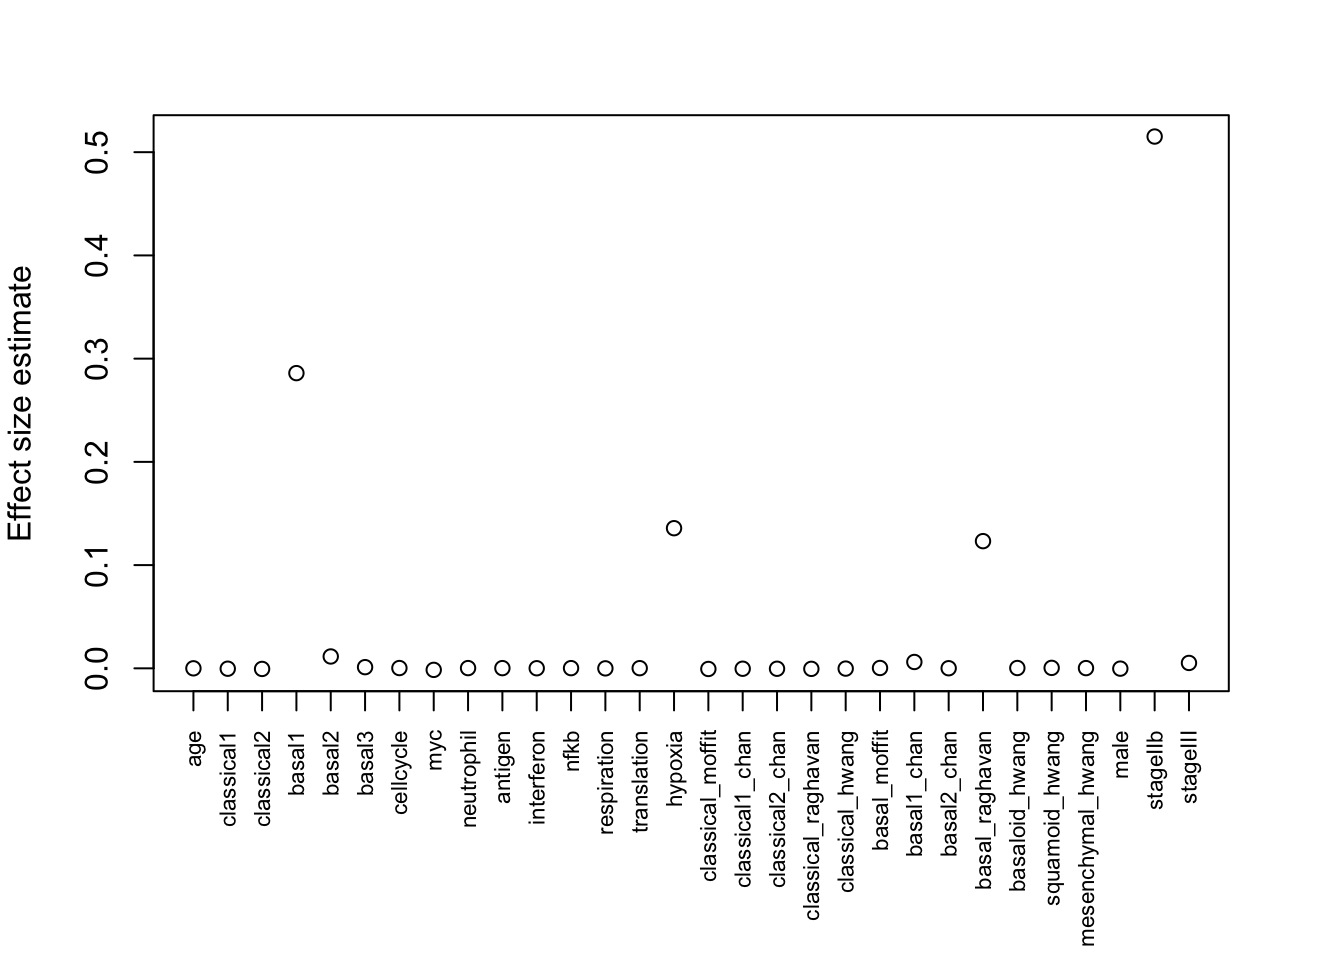
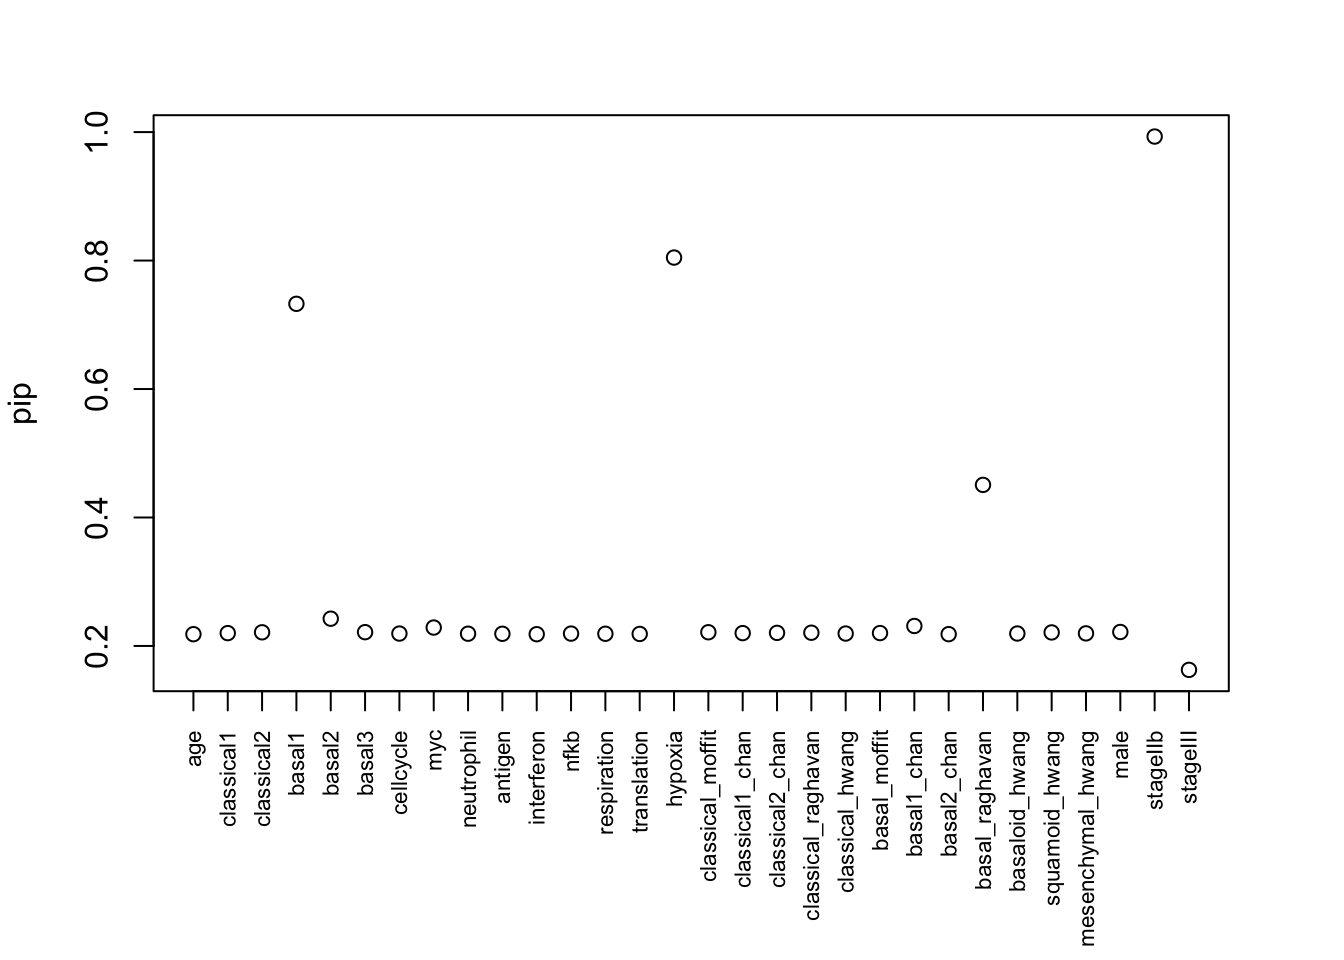
Build site.

diff --git a/docs/cancer_subtype.html b/docs/cancer_subtype.html
@@ -475,16 +475,16 @@ This reproducible <a href="http://rmarkdown.rstudio.com">R Markdown</a> analysis
 <div class="panel panel-default">
 <div class="panel-heading">
 <p class="panel-title">
-<a data-toggle="collapse" data-parent="#workflowr-checks" href="#strongRepositoryversionstrongahrefhttpsgithubcomyunqiyang0215survivalsusietree2ed94a0514c918e3584a7d718ac0d0508d1b972ftargetblank2ed94a0a"> <span class="glyphicon glyphicon-ok text-success" aria-hidden="true"></span> <strong>Repository version:</strong> <a href="https://github.com/yunqiyang0215/survival-susie/tree/2ed94a0514c918e3584a7d718ac0d0508d1b972f" target="_blank">2ed94a0</a> </a>
+<a data-toggle="collapse" data-parent="#workflowr-checks" href="#strongRepositoryversionstrongahrefhttpsgithubcomyunqiyang0215survivalsusietree49760779357f1e24a1a966d51c5ba97d06b636a8targetblank4976077a"> <span class="glyphicon glyphicon-ok text-success" aria-hidden="true"></span> <strong>Repository version:</strong> <a href="https://github.com/yunqiyang0215/survival-susie/tree/49760779357f1e24a1a966d51c5ba97d06b636a8" target="_blank">4976077</a> </a>
 </p>
 </div>
[2 lines of base64/hex data omitted]
 <div class="panel-body">
 <p>
 Great! You are using Git for version control. Tracking code development and connecting the code version to the results is critical for reproducibility.
 </p>
 <p>
-The results in this page were generated with repository version <a href="https://github.com/yunqiyang0215/survival-susie/tree/2ed94a0514c918e3584a7d718ac0d0508d1b972f" target="_blank">2ed94a0</a>. See the <em>Past versions</em> tab to see a history of the changes made to the R Markdown and HTML files.
+The results in this page were generated with repository version <a href="https://github.com/yunqiyang0215/survival-susie/tree/49760779357f1e24a1a966d51c5ba97d06b636a8" target="_blank">4976077</a>. See the <em>Past versions</em> tab to see a history of the changes made to the R Markdown and HTML files.
 </p>
 <p>
 Note that you need to be careful to ensure that all relevant files for the analysis have been committed to Git prior to generating the results (you can use <code>wflow_publish</code> or <code>wflow_git_commit</code>). workflowr only checks the R Markdown file, but you know if there are other scripts or data files that it depends on. Below is the status of the Git repository when the results were generated:
@@ -538,6 +538,40 @@ Message
 </tr>
 </thead>
 <tbody>
+<tr>
+<td>
+Rmd
+</td>
+<td>
+<a href="https://github.com/yunqiyang0215/survival-susie/blob/49760779357f1e24a1a966d51c5ba97d06b636a8/analysis/cancer_subtype.Rmd" target="_blank">4976077</a>
+</td>
+<td>
+yunqiyang0215
+</td>
+<td>
+2023-08-29
+</td>
+<td>
+wflow_publish("analysis/cancer_subtype.Rmd")
+</td>
+</tr>
+<tr>
+<td>
+html
+</td>
+<td>
+<a href="https://rawcdn.githack.com/yunqiyang0215/survival-susie/208a3f11afe7b7a4f474ceb66f1a8472782217ac/docs/cancer_subtype.html" target="_blank">208a3f1</a>
+</td>
+<td>
+yunqiyang0215
+</td>
+<td>
+2023-08-29
+</td>
+<td>
+Build site.
+</td>
+</tr>
 <tr>
 <td>
 Rmd
@@ -1037,66 +1071,81 @@ p = ncol(X)
 y &lt;- Surv(data.combined$futime, data.combined$event)
 fit.susie &lt;- ibss_from_ser(X, y, L = L, prior_variance = 1., prior_weights = rep(1/p, p), tol = 1e-3, maxit = maxiter,
                      estimate_intercept = TRUE, ser_function = fit_coxph)</code></pre>
-<pre><code>19.047 sec elapsed</code></pre>
+<pre><code>21.057 sec elapsed</code></pre>
 <pre class="r"><code>pip &lt;- logisticsusie:::get_pip(fit.susie$alpha)
 effect_estimate &lt;- colSums(fit.susie$alpha * fit.susie$mu)
 class(fit.susie) = &quot;susie&quot;
 cs &lt;- susie_get_cs(fit.susie, X)</code></pre>
+<pre class="r"><code>fit.susie$alpha</code></pre>
+<pre><code>              [,1]         [,2]         [,3]         [,4]         [,5]
+ [1,] 9.077002e-10 1.775708e-06 1.637247e-05 0.6571516629 0.0291000168
+ [2,] 5.012913e-05 2.368225e-04 2.541389e-04 0.0002223035 0.0002127505
+ [3,] 1.559306e-03 8.131596e-03 9.603318e-03 0.0085495339 0.0078215657
+ [4,] 3.435439e-02 3.371088e-02 3.372478e-02 0.0337040022 0.0337135529
+ [5,] 3.435439e-02 3.371088e-02 3.372478e-02 0.0337040022 0.0337135529
+ [6,] 3.435439e-02 3.371088e-02 3.372478e-02 0.0337040022 0.0337135529
+ [7,] 3.435439e-02 3.371088e-02 3.372478e-02 0.0337040022 0.0337135529
+ [8,] 3.435439e-02 3.371088e-02 3.372478e-02 0.0337040022 0.0337135529
+ [9,] 3.435439e-02 3.371088e-02 3.372478e-02 0.0337040022 0.0337135529
+[10,] 3.435439e-02 3.371088e-02 3.372478e-02 0.0337040022 0.0337135529
+              [,6]         [,7]         [,8]         [,9]        [,10]
+ [1,] 0.0020906630 9.640262e-09 0.0000244297 3.713704e-07 3.314570e-09
+ [2,] 0.0002196933 2.092147e-04 0.0009088008 2.130571e-04 2.700713e-04
+ [3,] 0.0080484333 7.245943e-03 0.0158386834 6.970563e-03 6.746850e-03
+ [4,] 0.0336975973 3.371386e-02 0.0340803435 3.371423e-02 3.371423e-02
+ [5,] 0.0336975973 3.371386e-02 0.0340803435 3.371423e-02 3.371423e-02
+ [6,] 0.0336975973 3.371386e-02 0.0340803435 3.371423e-02 3.371423e-02
+ [7,] 0.0336975973 3.371386e-02 0.0340803435 3.371423e-02 3.371423e-02
+ [8,] 0.0336975973 3.371386e-02 0.0340803435 3.371423e-02 3.371423e-02
+ [9,] 0.0336975973 3.371386e-02 0.0340803435 3.371423e-02 3.371423e-02
+[10,] 0.0336975973 3.371386e-02 0.0340803435 3.371423e-02 3.371423e-02
+             [,11]        [,12]        [,13]        [,14]        [,15]
+ [1,] 8.031203e-09 3.356080e-09 3.122874e-09 1.842121e-08 2.410391e-08
+ [2,] 2.303416e-04 2.347758e-04 4.467966e-04 2.482434e-04 5.964454e-04
+ [3,] 5.960467e-03 7.161210e-03 5.846314e-03 6.447664e-03 7.520618e-01
+ [4,] 3.371457e-02 3.371410e-02 3.382142e-02 3.371558e-02 3.342358e-02
+ [5,] 3.371457e-02 3.371410e-02 3.382142e-02 3.371558e-02 3.342358e-02
+ [6,] 3.371457e-02 3.371410e-02 3.382142e-02 3.371558e-02 3.342358e-02
+ [7,] 3.371457e-02 3.371410e-02 3.382142e-02 3.371558e-02 3.342358e-02
+ [8,] 3.371457e-02 3.371410e-02 3.382142e-02 3.371558e-02 3.342358e-02
+ [9,] 3.371457e-02 3.371410e-02 3.382142e-02 3.371558e-02 3.342358e-02
+[10,] 3.371457e-02 3.371410e-02 3.382142e-02 3.371558e-02 3.342358e-02
+             [,16]        [,17]        [,18]        [,19]        [,20]
+ [1,] 5.801256e-06 3.155495e-05 7.011291e-06 7.313144e-05 5.399864e-05
+ [2,] 2.486757e-04 2.319866e-04 2.508969e-04 2.377948e-04 2.462564e-04
+ [3,] 9.966125e-03 8.146961e-03 8.571510e-03 8.906771e-03 7.206083e-03
+ [4,] 3.369123e-02 3.370547e-02 3.371460e-02 3.370397e-02 3.371372e-02
+ [5,] 3.369123e-02 3.370547e-02 3.371460e-02 3.370397e-02 3.371372e-02
+ [6,] 3.369123e-02 3.370547e-02 3.371460e-02 3.370397e-02 3.371372e-02
+ [7,] 3.369123e-02 3.370547e-02 3.371460e-02 3.370397e-02 3.371372e-02
+ [8,] 3.369123e-02 3.370547e-02 3.371460e-02 3.370397e-02 3.371372e-02
+ [9,] 3.369123e-02 3.370547e-02 3.371460e-02 3.370397e-02 3.371372e-02
+[10,] 3.369123e-02 3.370547e-02 3.371460e-02 3.370397e-02 3.371372e-02
+             [,21]        [,22]        [,23]        [,24]        [,25]
+ [1,] 3.189192e-06 0.0156453106 7.767224e-07 0.2957430322 5.023537e-05
+ [2,] 2.526942e-04 0.0002169459 2.332186e-04 0.0002138327 2.026477e-04
+ [3,] 8.151991e-03 0.0068072742 6.036067e-03 0.0084354972 7.316384e-03
+ [4,] 3.372136e-02 0.0337007048 3.371359e-02 0.0336944941 3.371048e-02
+ [5,] 3.372136e-02 0.0337007048 3.371359e-02 0.0336944941 3.371048e-02
+ [6,] 3.372136e-02 0.0337007048 3.371359e-02 0.0336944941 3.371048e-02
+ [7,] 3.372136e-02 0.0337007048 3.371359e-02 0.0336944941 3.371048e-02
+ [8,] 3.372136e-02 0.0337007048 3.371359e-02 0.0336944941 3.371048e-02
+ [9,] 3.372136e-02 0.0337007048 3.371359e-02 0.0336944941 3.371048e-02
+[10,] 3.372136e-02 0.0337007048 3.371359e-02 0.0336944941 3.371048e-02
+             [,26]        [,27]        [,28]        [,29]        [,30]
+ [1,] 2.509383e-07 2.814662e-07 5.732256e-09 6.280751e-09 5.106184e-08
+ [2,] 2.796190e-04 2.770030e-04 4.935214e-04 9.911180e-01 9.433166e-04
+ [3,] 8.573001e-03 7.140600e-03 1.010089e-02 1.148845e-02 2.515914e-02
+ [4,] 3.383111e-02 3.377199e-02 3.371349e-02 3.372379e-02 2.137288e-02
+ [5,] 3.383111e-02 3.377199e-02 3.371349e-02 3.372379e-02 2.137288e-02
+ [6,] 3.383111e-02 3.377199e-02 3.371349e-02 3.372379e-02 2.137288e-02
+ [7,] 3.383111e-02 3.377199e-02 3.371349e-02 3.372379e-02 2.137288e-02
+ [8,] 3.383111e-02 3.377199e-02 3.371349e-02 3.372379e-02 2.137288e-02
+ [9,] 3.383111e-02 3.377199e-02 3.371349e-02 3.372379e-02 2.137288e-02
+[10,] 3.383111e-02 3.377199e-02 3.371349e-02 3.372379e-02 2.137288e-02</code></pre>
 <pre class="r"><code># Set wider margins to accommodate the labels
 par(mar = c(7, 4, 3, 3)) 
 plot(pip, xaxt = &quot;n&quot;, xlab = &quot;&quot;)
-axis(1, at=1:30, labels=colnames(X), las=2,  cex.axis = 0.7, xlab = &quot;&quot;)</code></pre>
-<p><img src="figure/cancer_subtype.Rmd/unnamed-chunk-7-1.png" width="672" style="display: block; margin: auto;" /></p>
-<p>
-<button type="button" class="btn btn-default btn-xs btn-workflowr btn-workflowr-fig" data-toggle="collapse" data-target="#fig-unnamed-chunk-7-1">
-Past versions of unnamed-chunk-7-1.png
-</button>
-</p>
-<div id="fig-unnamed-chunk-7-1" class="collapse">
-<div class="table-responsive">
-<table class="table table-condensed table-hover">
-<thead>
-<tr>
-<th>
-Version
-</th>
-<th>
-Author
-</th>
-<th>
-Date
-</th>
-</tr>
-</thead>
-<tbody>
-<tr>
-<td>
-<a href="https://github.com/yunqiyang0215/survival-susie/blob/779c10325f90e1dbbc1e5d036154b7fd5e169e64/docs/figure/cancer_subtype.Rmd/unnamed-chunk-7-1.png" target="_blank">779c103</a>
-</td>
-<td>
-yunqiyang0215
-</td>
-<td>
-2023-08-29
-</td>
-</tr>
-<tr>
-<td>
-<a href="https://github.com/yunqiyang0215/survival-susie/blob/b693b0d04a7220caa0091faff2a3010a3312ac68/docs/figure/cancer_subtype.Rmd/unnamed-chunk-7-1.png" target="_blank">b693b0d</a>
-</td>
-<td>
-yunqiyang0215
-</td>
-<td>
-2023-06-08
-</td>
-</tr>
-</tbody>
-</table>
-</div>
-</div>
-<pre class="r"><code>par(mar = c(7, 4, 3, 3)) 
-plot(effect_estimate, xaxt = &quot;n&quot;, xlab = &quot;&quot;, ylab = &quot;Effect size estimate&quot;)
 axis(1, at=1:30, labels=colnames(X), las=2,  cex.axis = 0.7, xlab = &quot;&quot;)</code></pre>
 <p><img src="figure/cancer_subtype.Rmd/unnamed-chunk-8-1.png" width="672" style="display: block; margin: auto;" /></p>
 <p>
@@ -1147,6 +1196,10 @@ yunqiyang0215
 </table>
 </div>
 </div>
+<pre class="r"><code>par(mar = c(7, 4, 3, 3)) 
+plot(effect_estimate, xaxt = &quot;n&quot;, xlab = &quot;&quot;, ylab = &quot;Effect size estimate&quot;)
+axis(1, at=1:30, labels=colnames(X), las=2,  cex.axis = 0.7, xlab = &quot;&quot;)</code></pre>
+<p><img src="figure/cancer_subtype.Rmd/unnamed-chunk-9-1.png" width="672" style="display: block; margin: auto;" /></p>
 <pre class="r"><code>cs</code></pre>
 <pre><code>$cs
 $cs$L2
@@ -1191,7 +1244,7 @@ fit.susie &lt;- ibss_from_ser(X, y, L = L, prior_variance = 1., prior_weights = 
                      estimate_intercept = TRUE, ser_function = fit_coxph)</code></pre>
 <pre><code>Warning in coxph.fit(X, Y, istrat, offset, init, control, weights = weights, :
 Loglik converged before variable 1 ; coefficient may be infinite.</code></pre>
-<pre><code>12.67 sec elapsed</code></pre>
+<pre><code>13.436 sec elapsed</code></pre>
 <pre class="r"><code>pip &lt;- logisticsusie:::get_pip(fit.susie$alpha)
 effect_estimate &lt;- colSums(fit.susie$alpha * fit.susie$mu)
 class(fit.susie) = &quot;susie&quot;
@@ -1199,7 +1252,7 @@ cs &lt;- susie_get_cs(fit.susie, X)</code></pre>
 <pre class="r"><code>par(mfrow = c(1,2))
 plot(pip)
 plot(effect_estimate)</code></pre>
-<p><img src="figure/cancer_subtype.Rmd/unnamed-chunk-12-1.png" width="672" style="display: block; margin: auto;" /></p>
+<p><img src="figure/cancer_subtype.Rmd/unnamed-chunk-13-1.png" width="672" style="display: block; margin: auto;" /></p>
 <pre class="r"><code>fit.susie$prior_vars</code></pre>
 <pre><code> [1] 0.17052052 0.29891300 0.03709282 0.00000000 0.00000000 0.00000000
  [7] 0.00000000 0.00000000 0.00000000 0.00000000</code></pre>
@@ -1324,7 +1377,7 @@ F-statistic: 98.88 on 1 and 398 DF,  p-value: &lt; 2.2e-16</code></pre>
 res &lt;- susie(X,y,L=10)
 plot(coef(res)[-1],pch = 20)
 plot(res$pip)</code></pre>
-<p><img src="figure/cancer_subtype.Rmd/unnamed-chunk-18-1.png" width="960" style="display: block; margin: auto;" /></p>
+<p><img src="figure/cancer_subtype.Rmd/unnamed-chunk-19-1.png" width="960" style="display: block; margin: auto;" /></p>
 <pre class="r"><code>res$sets</code></pre>
 <pre><code>$cs
 $cs$L2
